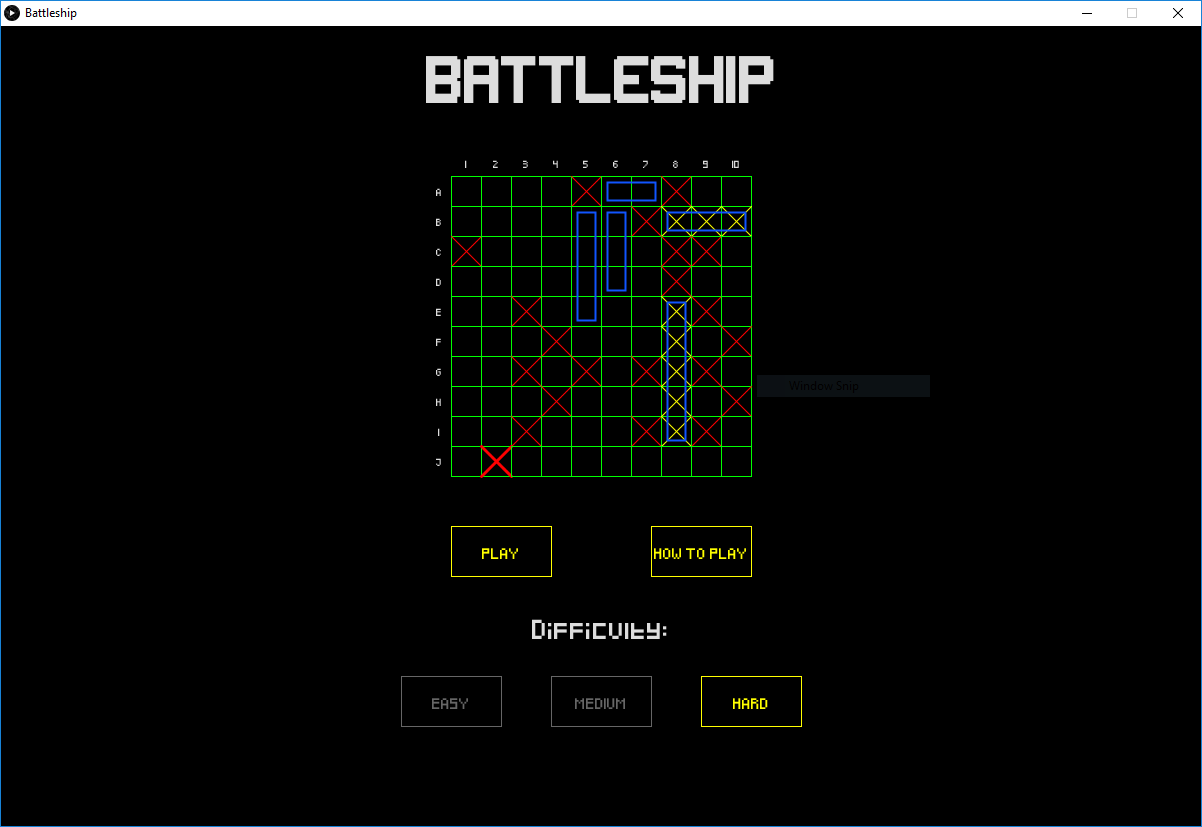
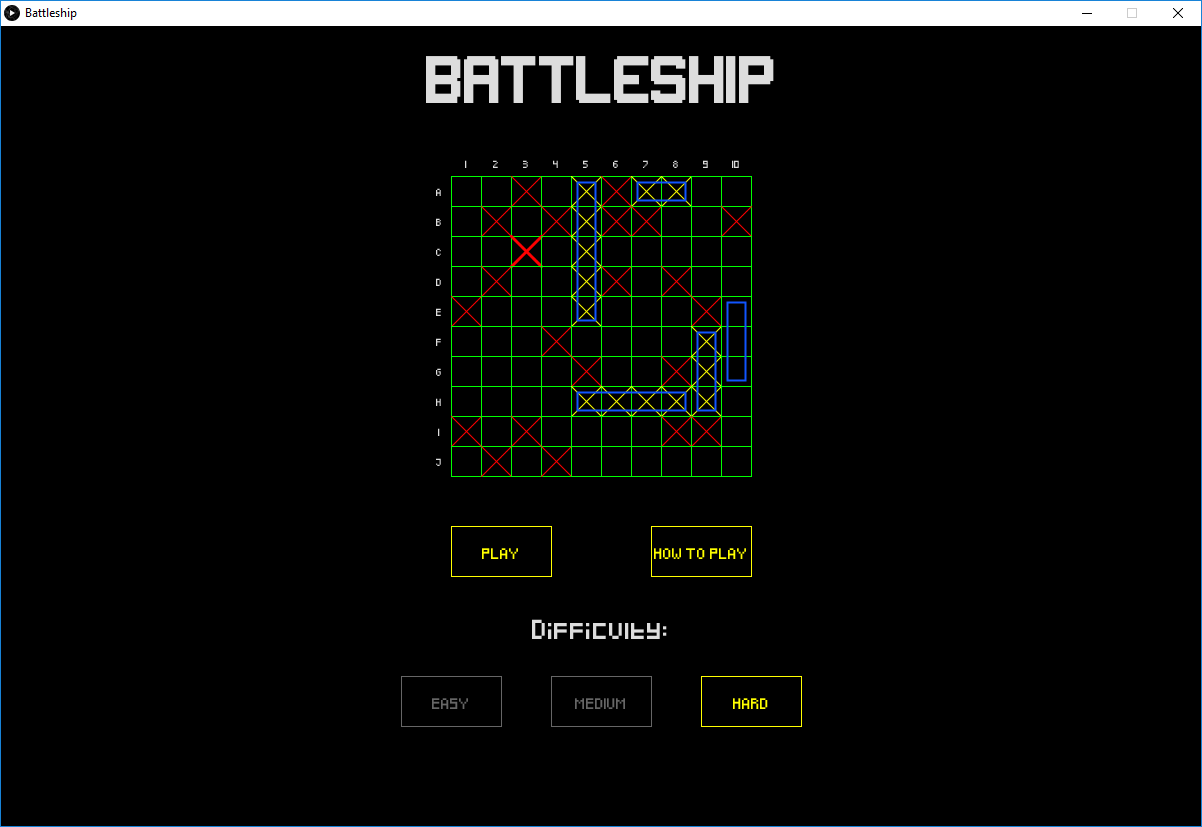
Updated readme

diff --git a/README.md b/README.md
@@ -15,7 +15,9 @@ Student Number: C15755659
 ![During](screenshots/board_play.png)
 
 ## Introduction
-This is a single-player implementation of the classic game, Battleship.
+This is a single-player implementation of the classic game, Battleship, with a choice of three difficulties of AI to play against.
+
+Note: Setting the debug flag to true prevents the AI from "thinking" before taking its turn. It's an artificial delay, and can get tedious to wait through if all you want to do is test it.
 
 ## Controls
 The game is mostly mouse controlled.
@@ -67,7 +69,24 @@ As the smallest ship is of size 2, this list of targets is guaranteed to hit eve
 The AI class deals with randomising ship placement both for itself and for the player.
 It's fairly simple, as the grid already has a method to ensure a ship is being placed validly. All it does is continually try to place a ship until it succeeds, then moves on to the next ship.
 
+## Other Notable Features
+
+### Main Menu Demo
+I couldn't decide how to present the main menu at first, as I don't have much artistic ability. In the end I decided to use it to display the most prominent feature of the game, the AI. 
+
+It uses the Hard AI to perpetually generate and solve boards, and as mentioned above, it can be sped up or slowed down using the arrow keys.
+
+### Info text
+When playing, the outcome last 3 actions are displayed to the player. They are stored in a queue of strings, everytime a new string is added, the oldest is removed.
+I wanted a way to make it clear which was the most recent action. The most recent is displayed in white, and they fade into grey as they get older.
+
+### Ship Placement Checking
+During setup, when holding a ship over the grid, the cell you hover over will highlight either red or green depending on whether the ship can be placed there.
+To check if a position is valid, it first checks if it an physically fit in the grid at that position. If so, it checks every cell it would occupy, to ensure there isn't already a ship in that position.
+
 ## Asset Credits
-http://www.dafont.com/game-over.font
-http://www.dafont.com/pixeled.font
-http://www.dafont.com/gameplay.font
+
+### Fonts
+http://www.dafont.com/pixeled.font 
+http://www.dafont.com/gameplay.font 
+http://www.dafont.com/coolvetica.font 
